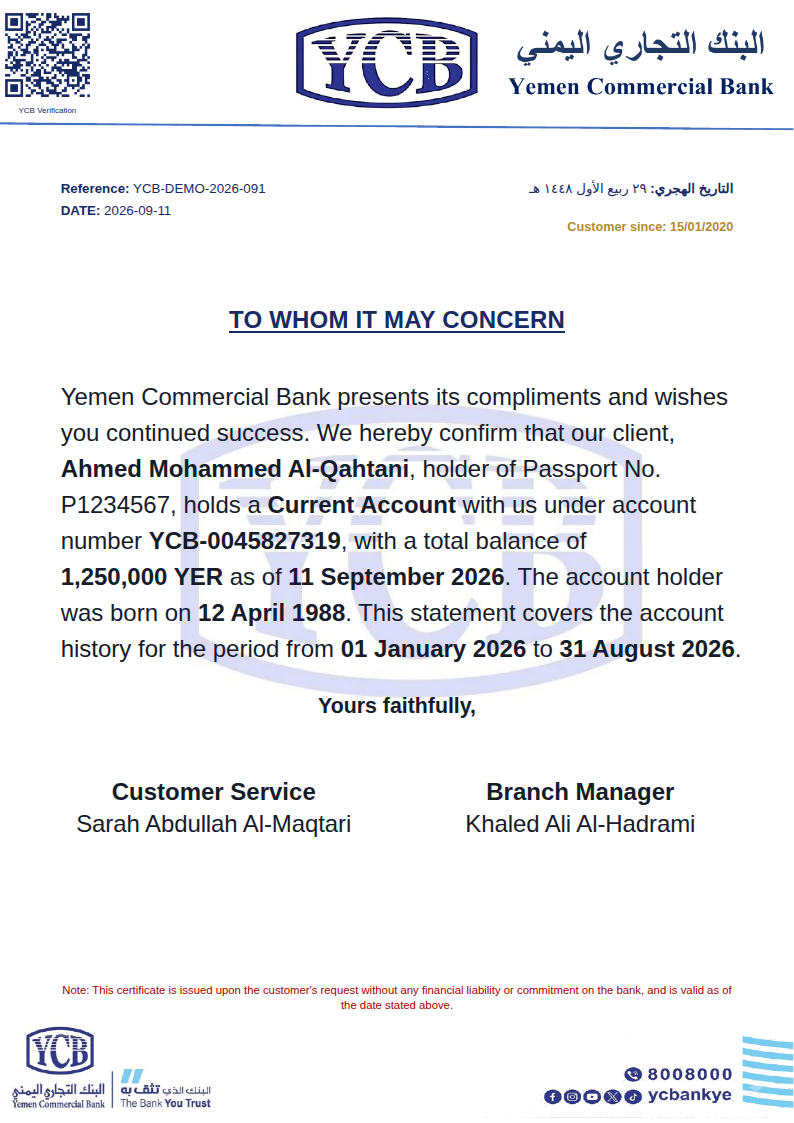
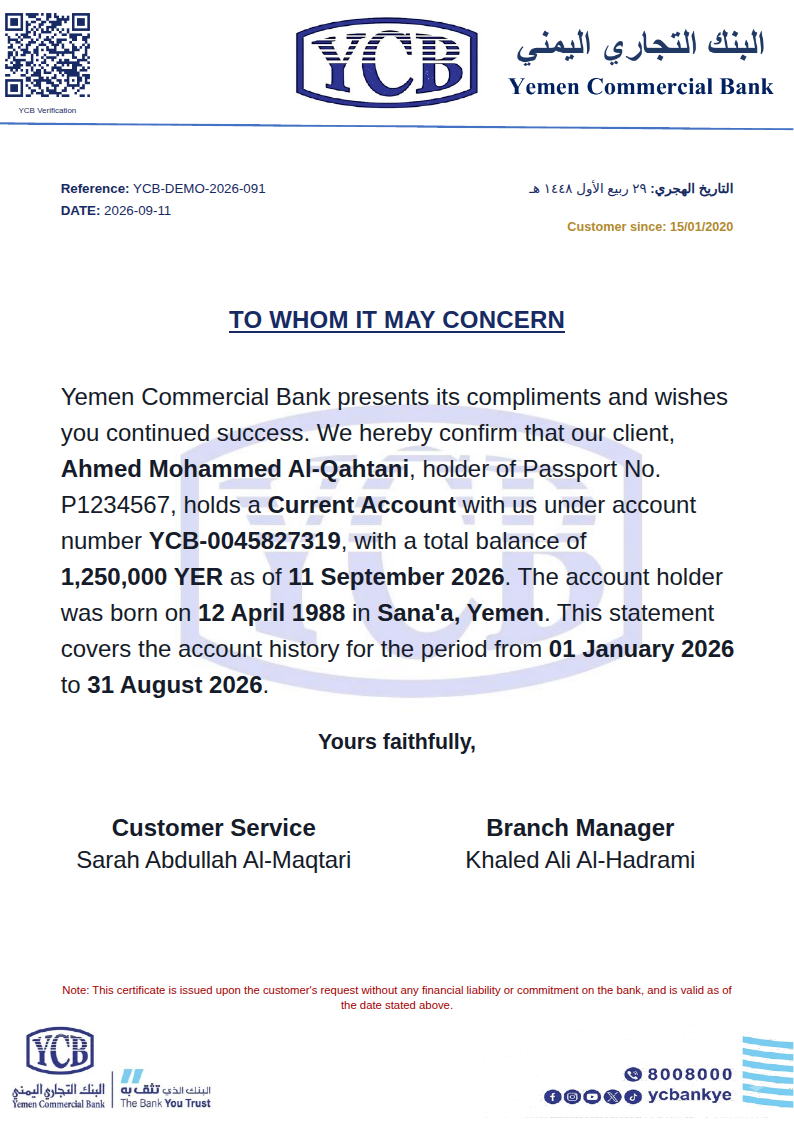
Bind YCB birth date and place fields

diff --git a/client/src/pages/Home.tsx b/client/src/pages/Home.tsx
@@ -159,6 +159,7 @@ const defaultYcbClient = {
   branch: "Sana’a Main Branch",
   customerSince: "15/01/2020",
   dateOfBirth: "",
+  placeOfBirth: "",
   accountNumber: "YCB-0045827319",
   accountType: "Current Account",
   currency: "YER",
@@ -775,7 +776,7 @@ function AuthenticatedHome({ user, logout }: { user: { name?: string | null; ema
     setClient((current) => ({ ...current, [key]: value }));
     if (selectedBank === "ycb") {
       const ycbKeyMap: Partial<Record<keyof typeof defaultClient, keyof typeof ycbClient>> = {
-        name: "name", passport: "passport", branch: "branch", customerSince: "customerSince", dateOfBirth: "dateOfBirth", accountNumber: "accountNumber", accountType: "accountType", currency: "currency", opening: "opening", issueDate: "issueDate",
+        name: "name", passport: "passport", branch: "branch", customerSince: "customerSince", dateOfBirth: "dateOfBirth", placeOfBirth: "placeOfBirth", accountNumber: "accountNumber", accountType: "accountType", currency: "currency", opening: "opening", issueDate: "issueDate",
       };
       const ycbKey = ycbKeyMap[key];
       if (ycbKey) setYcbClient((current) => ({ ...current, [ycbKey]: value }));
@@ -1174,7 +1175,7 @@ function AuthenticatedHome({ user, logout }: { user: { name?: string | null; ema
           <div className="grid">
             <label>اسم العميل / Customer name<input value={client.name} onChange={(event) => updateClient("name", event.target.value)} placeholder="Name as shown on the statement" /></label>
             {selectedBank === "tadhamon" && <label>الاسم بالعربية / Arabic name<input dir="rtl" value={client.nameAr} onChange={(event) => updateClient("nameAr", event.target.value)} placeholder="الاسم كما يظهر في الكشف السريع" /></label>}
-            {selectedBank === "ycb" && <><label>العنوان / Address <span className="field-note">يظهر في الكشف / Shown on statement</span><input value={ycbClient.address} onChange={(event) => updateYcbClient("address", event.target.value)} placeholder="Street, area, city" /></label><label>تاريخ الميلاد / Date of Birth <span className="field-note">اختياري / Optional</span><input type="date" value={ycbClient.dateOfBirth} onChange={(event) => updateYcbClient("dateOfBirth", event.target.value)} /></label></>}
+            {selectedBank === "ycb" && <><label>العنوان / Address <span className="field-note">يظهر في الكشف / Shown on statement</span><input value={ycbClient.address} onChange={(event) => updateYcbClient("address", event.target.value)} placeholder="Street, area, city" /></label><label>تاريخ الميلاد / Date of birth <span className="field-note">اختياري / Optional</span><input type="date" value={ycbClient.dateOfBirth} onChange={(event) => updateYcbClient("dateOfBirth", event.target.value)} /></label><label>مكان الميلاد / Place of birth <span className="field-note">اختياري / Optional</span><input value={ycbClient.placeOfBirth} onChange={(event) => updateYcbClient("placeOfBirth", event.target.value)} placeholder="City, country" /></label></>}
             {selectedBank === "tadhamon" && <><label>العنوان / Address <span className="field-note">يظهر في كشف التضامن / Shown on Tadhamon statement</span><input value={client.address} onChange={(event) => updateClient("address", event.target.value)} placeholder="Street, area, city" /></label><label>مكان الميلاد / Place of birth <span className="field-note">اختياري / Optional</span><input value={client.placeOfBirth} onChange={(event) => updateClient("placeOfBirth", event.target.value)} placeholder="City, country" /></label></>}
             {selectedBank !== "ycb" && <label>رقم المميز / Momaiz No.<input dir="ltr" value={client.momaizNo} onChange={(event) => updateClient("momaizNo", event.target.value)} /></label>}
             <label>رقم الجواز / Passport No. <span className="field-note">اختياري / Optional</span><input dir="ltr" value={client.passport} onChange={(event) => updateClient("passport", event.target.value)} /></label>

diff --git a/client/src/components/YcbCertificateWorkspace.tsx b/client/src/components/YcbCertificateWorkspace.tsx
@@ -4,7 +4,7 @@ import { openPrintWindow } from "@/lib/printDocument";
 import { ycbOfficialCertificateTemplate } from "@/lib/ycbOfficialCertificateTemplate";
 
 export type YcbClient = {
-  name: string; passport: string; branch: string; customerSince: string; dateOfBirth: string;
+  name: string; passport: string; branch: string; customerSince: string; dateOfBirth: string; placeOfBirth: string;
   accountNumber: string; accountType: string; currency: string; opening: string; issueDate: string;
   referenceNumber: string; customerServiceName: string; branchManagerName: string; periodStart?: string; periodEnd?: string;
 };
@@ -43,7 +43,7 @@ export function renderYcbCertificateHtml(client: YcbClient) {
     "[ACCOUNT_NUMBER]": client.accountNumber,
     "[PASSPORT_LINE]": client.passport ? `, holder of Passport No. ${client.passport}` : "",
     "[BIRTH_DATE_LINE]": client.dateOfBirth ? `, born on ${formatOptionalDate(client.dateOfBirth)}` : "",
-    "[BIRTH_SENTENCE]": client.dateOfBirth ? ` The account holder was born on <span class="strong">${escapeHtml(formatOptionalDate(client.dateOfBirth))}</span>.` : "",
+    "[BIRTH_SENTENCE]": client.dateOfBirth ? ` The account holder was born on <span class="strong">${escapeHtml(formatOptionalDate(client.dateOfBirth))}</span>${client.placeOfBirth.trim() ? ` in <span class="strong">${escapeHtml(client.placeOfBirth)}</span>` : ""}.` : "",
     "[PERIOD_SENTENCE]": client.periodStart && client.periodEnd ? ` This statement covers the account history for the period from <span class="strong">${escapeHtml(formatOptionalDate(client.periodStart))}</span> to <span class="strong">${escapeHtml(formatOptionalDate(client.periodEnd))}</span>.` : "",
     "[CUSTOMER_SINCE_LINE]": client.customerSince.trim() ? `Customer since: ${formatOptionalDate(client.customerSince)}` : "",
     "[BALANCE_IN_WORDS]": `${formatFinancialAmount(client.opening)} ${currencyWords(client.currency)}`,
@@ -123,6 +123,7 @@ export function YcbCertificateWorkspace({ client, onChange, onBack }: Props) {
       <label>Branch name<input dir="ltr" value={client.branch} onChange={(e) => onChange("branch", e.target.value)} /></label>
       <label>Customer since<input value={client.customerSince} onChange={(e) => onChange("customerSince", e.target.value)} /></label>
       <label>Date of birth <span className="field-note">Optional</span><input type="date" value={client.dateOfBirth} onChange={(e) => onChange("dateOfBirth", e.target.value)} /></label>
+      <label>Place of birth <span className="field-note">Optional</span><input value={client.placeOfBirth} onChange={(e) => onChange("placeOfBirth", e.target.value)} placeholder="City, country" /></label>
     </div></section>
     <section className="panel bank-form-panel"><div className="panel-heading"><div><h2>Account Information</h2><p className="hint">Fields used by the independent YCB account certificate.</p></div></div><div className="grid">
       <label>Account type<input dir="ltr" value={client.accountType} onChange={(e) => onChange("accountType", e.target.value)} /></label>

diff --git a/preview/ycb-certificate-message-updated.html b/preview/ycb-certificate-message-updated.html
@@ -41,7 +41,7 @@ body{font-family:Arial,Calibri,sans-serif;color:#172a63}
   <main class="content">
     <h1 class="title">TO WHOM IT MAY CONCERN</h1>
     <section class="body">
-      <p>Yemen Commercial Bank presents its compliments and wishes you continued success. We hereby confirm that our client, <span class="strong">Ahmed Mohammed Al-Qahtani</span>, holder of Passport No. P1234567, holds a <span class="strong">Current Account</span> with us under account number <span class="strong">YCB-0045827319</span>, with a total balance of <span class="strong">1,250,000 YER</span> as of <span class="strong">11 September 2026</span>. The account holder was born on <span class="strong">12 April 1988</span>. This statement covers the account history for the period from <span class="strong">01 January 2026</span> to <span class="strong">31 August 2026</span>.</p>
+      <p>Yemen Commercial Bank presents its compliments and wishes you continued success. We hereby confirm that our client, <span class="strong">Ahmed Mohammed Al-Qahtani</span>, holder of Passport No. P1234567, holds a <span class="strong">Current Account</span> with us under account number <span class="strong">YCB-0045827319</span>, with a total balance of <span class="strong">1,250,000 YER</span> as of <span class="strong">11 September 2026</span>. The account holder was born on <span class="strong">12 April 1988</span> in <span class="strong">Sana&#039;a, Yemen</span>. This statement covers the account history for the period from <span class="strong">01 January 2026</span> to <span class="strong">31 August 2026</span>.</p>
     </section>
     <div class="closing">Yours faithfully,</div>
     <section class="signatures">

diff --git a/client/src/components/YcbCertificateWorkspace.test.ts b/client/src/components/YcbCertificateWorkspace.test.ts
@@ -7,6 +7,7 @@ const demoClient: YcbClient = {
   branch: "Sana’a Main Branch",
   customerSince: "15/01/2020",
   dateOfBirth: "1988-04-12",
+  placeOfBirth: "Sana'a, Yemen",
   accountNumber: "YCB-0045827319",
   accountType: "Current Account",
   currency: "YER",
@@ -25,6 +26,7 @@ describe("YCB certificate data placement", () => {
     expect(html).toContain("holder of Passport No. P1234567");
     expect(html).toContain("The account holder was born on");
     expect(html).toContain("12 April 1988");
+    expect(html).toContain("Sana&#039;a, Yemen");
     expect(html).toContain("This statement covers the account history for the period from");
     expect(html).toContain("31 August 2026");
     expect(html).toContain("Customer since: 15/01/2020");
@@ -40,9 +42,10 @@ describe("YCB certificate data placement", () => {
   });
 
   it("omits optional values cleanly when the fields are empty", () => {
-    const html = renderYcbCertificateHtml({ ...demoClient, passport: "", dateOfBirth: "", referenceNumber: "" });
+    const html = renderYcbCertificateHtml({ ...demoClient, passport: "", dateOfBirth: "", placeOfBirth: "", referenceNumber: "" });
     expect(html).not.toContain("Passport No.");
     expect(html).not.toContain("The account holder was born on");
+    expect(html).not.toContain("Place of birth");
     expect(html).toContain("This statement covers the account history for the period from");
     expect(html).toContain("Customer since: 15/01/2020");
     expect(html).not.toContain("Reference:</b>");
